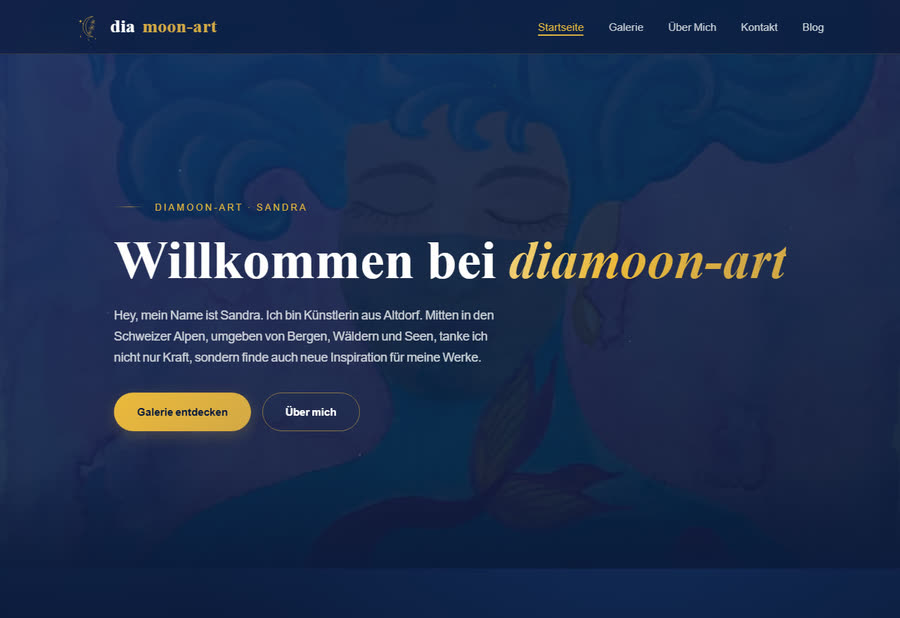
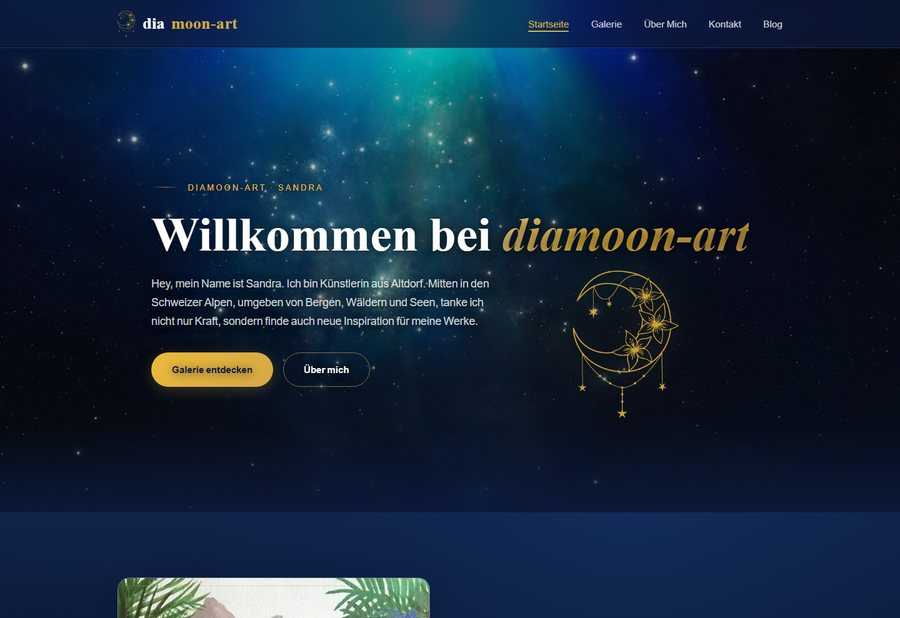
Sandras Zitat einfuegen, Vorschaubild von diamoon-art.ch aktualisieren
Freigabe per E-Mail liegt vor (siehe intern/sandra-gespraech.md).
Vorschaubild war vom 30. August und zeigte das alte Design; neuer
Screenshot der aktuell live stehenden Startseite eingesetzt.

diff --git a/projekte.html b/projekte.html
@@ -82,8 +82,7 @@
             <div class="item-tag">Echtes Kundenprojekt</div>
             <h3>Kunst-Portfolio</h3>
             <p>Auftritt für eine Malerin und Zeichnerin – Startseite mit Einblick in Stil und Werke.</p>
-            <!-- Zitat erst einfügen, sobald Sandras Freigabe per E-Mail vorliegt (siehe intern/sandra-gespraech.md) -->
-            <!-- <p class="item-quote">„Zitat von Sandra hier“ – Sandra, diamoon-art.ch</p> -->
+            <p class="item-quote">„Patrik hat meine Vorstellungen genau verstanden und meine Webseite unkompliziert und zuverlässig umgesetzt.“ – Sandra, diamoon-art.ch</p>
           </div>
         </a>
         <a class="gallery-item no-zoom" data-cat="business" data-pages="mehrseitig" href="projekte/handwerk/index.html" target="_blank" rel="noopener">
